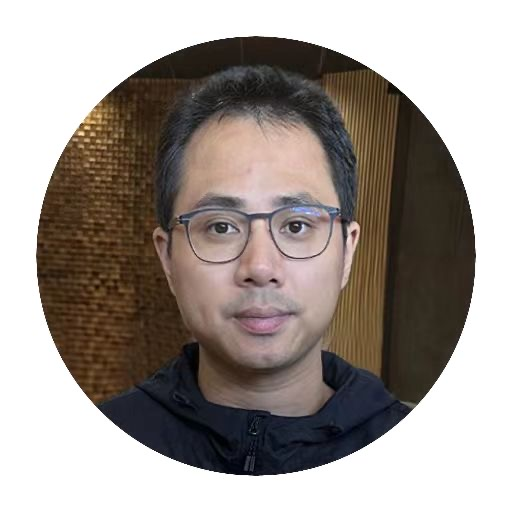
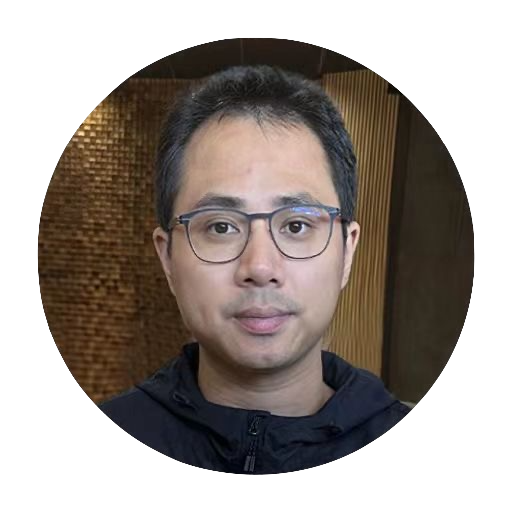
add a dark theme

diff --git a/index.html b/index.html
@@ -17,15 +17,6 @@
         <link rel="stylesheet" href="/css/hugo-academic.css" />
         <link rel="icon" type="image/svg" href="/img/favicon/favicon.ico"/>
 	<script async src="https://www.googletagmanager.com/gtag/js?id=G-N1CN3KHMTJ"></script>
-    </style>
-	<script>
-	  window.dataLayer = window.dataLayer || [];
-	  function gtag(){dataLayer.push(arguments);}
-	  gtag('js', new Date());
-	
-	  gtag('config', 'G-N1CN3KHMTJ');
-	</script>
-        <title>Ruohai Ge</title>
     </head>
 
     <body id="top" data-spy="scroll" data-target="#navbar-main" data-offset="71">
@@ -38,25 +29,34 @@
                         <span class="icon-bar"></span>
                         <span class="icon-bar"></span>
                     </button>
-                    <a class="navbar-brand" href="/">Ruohai Ge's Website</a></div>
+                    <a class="navbar-brand">
+                        <button id="light-toggle" title="Change theme">
+                          <i class="fas fa-moon"></i>
+                          <i class="fas fa-sun "style="display: none;"></i>
+                        </button>
+                    </a>
+                </div>
                 <div class="collapse navbar-collapse">
                     <ul class="nav navbar-nav navbar-right">
                         <li class="nav-item">
                             <a href="/#about" data-target="#about">
-                                <span>About</span></a>
+                                <span>About</span>
+                            </a>
                         </li>
                         <li class="nav-item">
                             <a href="/#Research" data-target="#Research">
-                                <span>Research</span></a>
+                                <span>Research</span>
+                            </a>
                         </li>
                         <li class="nav-item">
                             <a href="/#Projects" data-target="#Projects">
-                                <span>Projects</span></a>
+                                <span>Projects</span>
+                            </a>
                         </li>
-                        </li>
-			            <li class="nav-item">
+                        <li class="nav-item">
                             <a href="/#Services" data-target="#Services">
-                                <span>Services</span></a>
+                                <span>Services</span>
+                            </a>
                         </li>
                     </ul>
                 </div>
@@ -96,10 +96,11 @@
                         Currently I am doing part-time research at City University of Hong Kong's <a href="https://metaslam.github.io/">Gair Lab</a> under <a href="https://www.cityu.edu.hk/mne/people/academic-staff/prof-yin-peng">Prof. Peng Yin</a>.
                         </p>    
                         <p>
-                        My current research interests lie in Localization, Active Exploration, Multi-Robot Systems, Language Navigation, Mobile Platforms.
+                        My current research interests lie in Localization, Active Exploration, Multi-Robot Systems, Language Navigation, Robotics Systems.
                         </p>
                     </div>
         </section>
+
 
         <section id="Research" class="home-section">
             <div class="container">
@@ -114,7 +115,7 @@
                         <img class="img-fluid img-rounded" src="/img/automerge.gif">
                     </div>
                     <div class="col-md-8">
-                        <b><font size="black"><a href="https://ieeexplore.ieee.org/document/10203034">Automerge: A framework for map assembling and smoothing in city-scale environments</a></font></b><br>
+                        <b><a href="https://ieeexplore.ieee.org/document/10203034">Automerge: A framework for map assembling and smoothing in city-scale environments</a></b><br>
                         <span style='font-size: 16px;'>Peng Yin,  Shiqi Zhao, Haowen Lai, <b>Ruohai Ge</b>, Ji Zhang, Howie Choset, Sebastian Scherer</span>
                         <br>
                         <b>IEEE Transactions on Robotics (T-RO), 2023</b>
@@ -132,7 +133,7 @@
                         <img class="img-fluid img-rounded" src="/img/alita.gif">
                     </div>
                     <div class="col-md-8">
-                        <b><font color="black">ALITA: A Large-scale Incremental Dataset for Long-term Autonomy</font></b><br>
+                        <b>ALITA: A Large-scale Incremental Dataset for Long-term Autonomy</b><br>
                         <i class="fa fa-globe"></i><a href="https://metaslam.github.io/datasets/alita/"> Project Page</a>
                         <i class="fas fa-file-pdf"></i><a href="https://drive.google.com/file/d/1oWWy5VJwUHYYjlRDoLnwwVgcgeCQpkPr/view?usp=sharing"> Paper</a> 
                         <i class="fa fa-database"></i><a href="https://github.com/MetaSLAM/ALITA"> Dataset</a>
@@ -148,7 +149,7 @@
                         <img class="img-fluid img-rounded" src="/img/ms_t.gif">
                     </div>
                     <div class="col-md-8">
-                        <b><font color="black">Real-Time Visual Localization System in Changing and Challenging Environments via Visual Place Recognition</font></b><br>
+                        <b>Real-Time Visual Localization System in Changing and Challenging Environments via Visual Place Recognition</b><br>
                         Master's Thesis, 2022
                         <br>
                         <i class="fas fa-file-pdf"></i><a href="https://www.ri.cmu.edu/app/uploads/2022/07/Master_Thesis_Ruohai.pdf"> Report</a> 
@@ -174,7 +175,7 @@
                         <img class="img-fluid img-rounded" src="/img/needle.png">
                     </div>
                     <div class="col-md-8">
-                        <b><font color="black">Needle Deep Learning Library</a></font></b><br>
+                        <b>Needle Deep Learning Library</a></b><br>
                         10-714 Deep Learning Systems
                         <br>
                         Sep 2021 - Dec 2021
@@ -188,7 +189,7 @@
                         <img class="img-fluid img-rounded" src="/img/trash.gif""">
                     </div>
                     <div class="col-md-8">
-                        <b><font color="black">Autonomous Trash Can</a></font></b><br>
+                        <b>Autonomous Trash Can</a></b><br>
                         18-500 ECE Design Experience (Bachelor Capstone Project)
                         <br>
                         Sep 2019  - Dec 2019
@@ -206,7 +207,7 @@
                         <img class="img-fluid img-rounded" src="/img/monkey.gif">
                     </div>
                     <div class="col-md-8">
-                        <b><font color="black">Brachiation Robot</font></b><br>
+                        <b>Brachiation Robot</b><br>
                         BioRobotics Lab, Carnegie Mellon University
                         <br>
                         May 2019  - Sep 2019
@@ -223,7 +224,7 @@
                         <img class="img-fluid img-rounded" src="/img/embedded.gif">
                     </div>
                     <div class="col-md-8">
-                        <b><font color="black">Embedded Visual Processing</font></b>
+                        <b>Embedded Visual Processing</b>
                         <br>
                         BioRobotics Lab, Carnegie Mellon University
                         <br>
@@ -241,7 +242,7 @@
                         <img class="img-fluid img-rounded" src="/img/keva.gif">
                     </div>
                     <div class="col-md-8">
-                        <b><font color="black">Robotic Block Builder</font></b>
+                        <b>Robotic Block Builder</b>
                         <br>
                         CMU 16-264 Humanoids 
                         <br>
@@ -260,7 +261,7 @@
                         <img class="img-fluid img-rounded" src="/img/salamander.gif">
                     </div>
                     <div class="col-md-8">
-                        <b><font color="black">Salamander Gait Tracking</font></b>
+                        <b>Salamander Gait Tracking</b>
                         <br>
                         BioRobotics Lab, Carnegie Mellon University
                         <br>
@@ -317,8 +318,30 @@
             </div>
         </footer>
 
+        <script>
+            window.dataLayer = window.dataLayer || [];
+            function gtag(){dataLayer.push(arguments);}
+            gtag('js', new Date());
+            gtag('config', 'G-N1CN3KHMTJ');
+        </script>
+        <script>
+            const toggleButton = document.getElementById('light-toggle');
+            const body = document.body;
+            const titleElement = document.getElementById('title');
+            toggleButton.addEventListener('click', function() {
+                // Toggle dark mode class on body
+                body.classList.toggle('dark-theme');
+                // Toggle visibility of sun and moon icons
+                const moonIcon = toggleButton.querySelector('.fa-moon');
+                const sunIcon = toggleButton.querySelector('.fa-sun');
+                moonIcon.style.display = moonIcon.style.display === 'none' ? 'inline-block' : 'none';
+                sunIcon.style.display = sunIcon.style.display === 'none' ? 'inline-block' : 'none';
+            });
+        </script>
+
         <script src="/js/jquery-1.12.3.min.js"></script>
         <script src="/js/bootstrap.min.js"></script>
         <script src="/js/isotope.pkgd.min.js"></script>
         <script src="//cdnjs.cloudflare.com/ajax/libs/jquery.imagesloaded/4.1.1/imagesloaded.pkgd.min.js"></script>
+    </body>
 </html>

diff --git a/css/hugo-academic.css b/css/hugo-academic.css
@@ -38,6 +38,7 @@ body {
   font-size: 1rem;
   line-height: inherit;
   color: inherit;
+  transition: background-color 0.3s ease;
   margin-top: 71px; /* Offset body content by navbar height. */
   padding-top: 0;
   counter-reset: captions;
@@ -47,6 +48,11 @@ body {
   body {
     margin-top: 51px; /* Offset body content by navbar height. */
   }
+}
+
+body.dark-theme {
+  background-color: #23252f !important;
+  color: #f8f8f2;
 }
 
 /* Body text */
@@ -1114,4 +1120,55 @@ div.alert a:hover {
   color: #fff;
   background-color: #f44336; /* Material Red500 */
   border-color: #ebccd1;
+}
+
+/* #light-toggle {
+  background: transparent;
+  border: none;
+  cursor: pointer;
+} */
+
+#light-toggle {
+  padding: 0;
+  border: 0;
+  background-color: inherit;
+}
+
+body.dark-theme .home-section {
+  background-color: #23252f !important;
+  color: #f8f8f2;
+}
+
+body.dark-theme .navbar-default {
+  background-color: #23252f !important;
+  color: #f8f8f2;
+}
+
+body.dark-theme h1,
+body.dark-theme h2,
+body.dark-theme h3,
+body.dark-theme h4,
+body.dark-theme h5,
+body.dark-theme h6,
+body.dark-theme b,
+body.dark-theme .navbar-nav a,
+body.dark-theme .navbar-brand
+{
+  color: #f8f8f2;
+}
+
+body.dark-theme h2[itemprop="name"] {
+  color: #f8f8f2 !important;
+}
+
+body.dark-theme .nav-item a:hover {
+  color: #f09228;
+}
+
+body.dark-theme hr {
+  border-color: #34495e;
+}
+
+.toggle-container button {
+  margin-top: 0;
 }